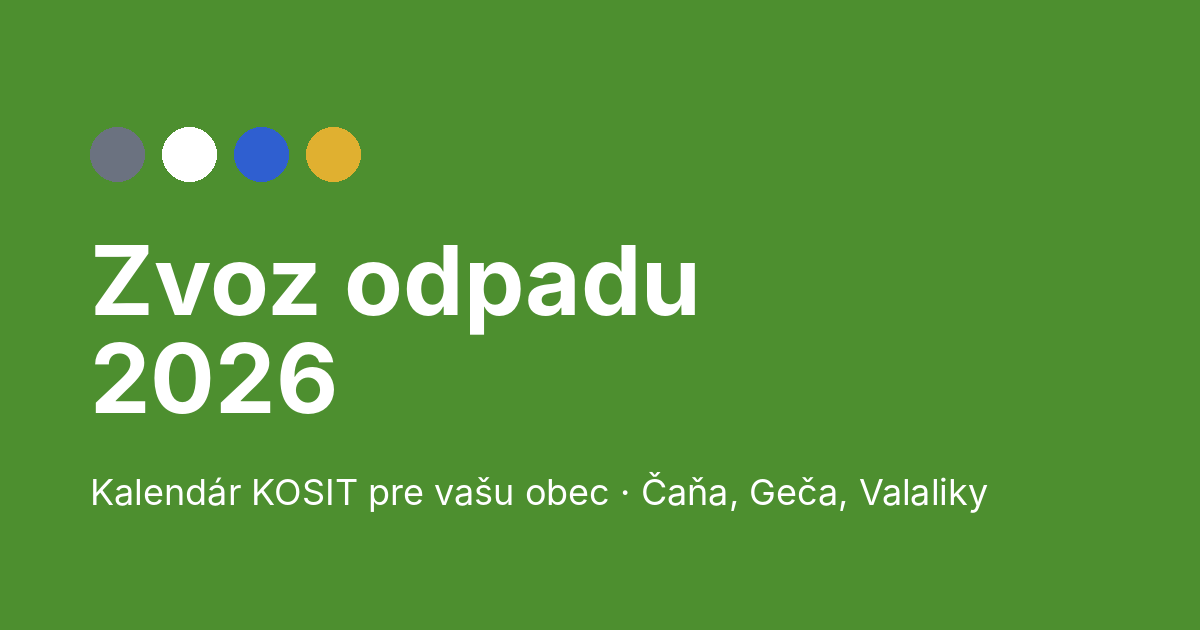
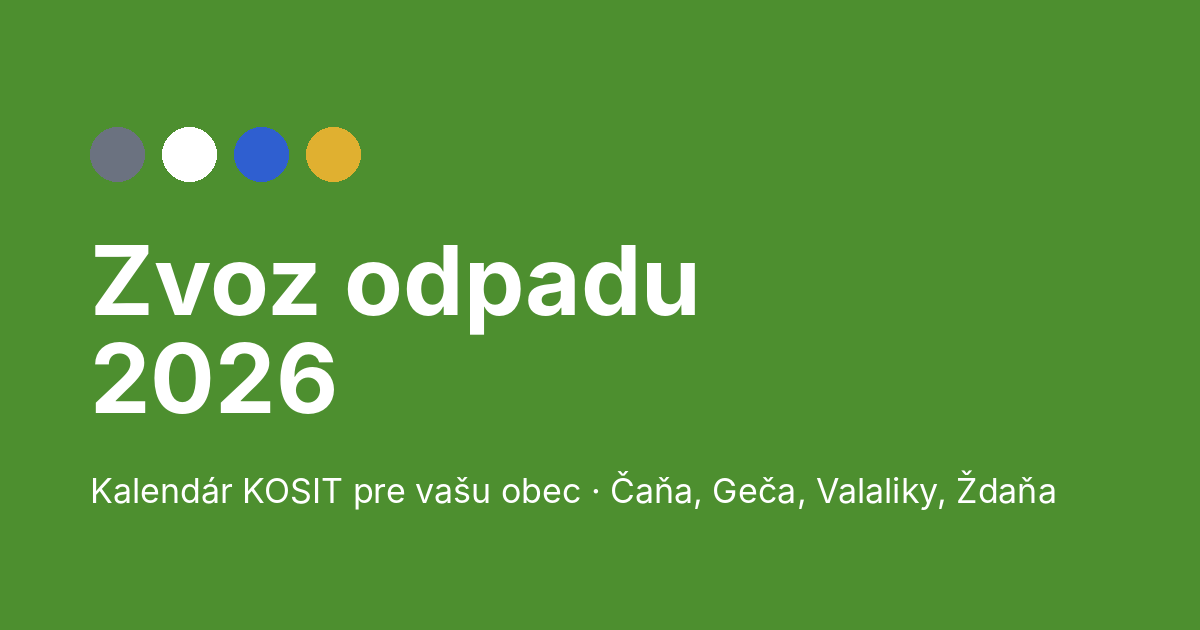
v31: nová obec Ždaňa
Termíny zo zvozového kalendára KOSIT 2026, záložka Zberný dvor (zberné miesto pri ZŠ).
Otváracie hodiny zberného dvora môžu mať viac intervalov za deň (obedňajšia prestávka),
text pod hodinami si môže obec upraviť (zd_other_closed).

Claude-Session: https://claude.ai/code/session_01L48mXoFo5c8PZqUfdjkbCs

Changed region(s): [[0.0617, 0.754, 0.8942, 0.8143]]

diff --git a/index.html b/index.html
@@ -48,7 +48,7 @@ footer{margin-top:22px;font-size:13px;color:var(--mut)}footer a{color:var(--btn)
 .nx b{font-size:12px;gap:5px;min-height:26px}.nx .dt{width:10px;height:10px}.nx .alr{margin:-10px -12px 8px;padding:5px 12px;border-radius:11px 11px 0 0;font-size:12px;font-weight:600;display:flex;align-items:center;gap:5px}.nx.r{border-color:var(--red)}.nx.r .alr{background:var(--red);color:var(--redt)}.nx.y{border-color:var(--yel)}.nx.y .alr{background:var(--yel);color:#1b1f2a}
 .tsw{display:flex;gap:1px;padding:2px;border-radius:8px;background:var(--in);margin-left:auto;margin-right:4px;flex:none}.tsw button{height:auto;border:1px solid transparent;background:transparent;color:var(--mut);font:inherit;font-size:11px;padding:3px 6px;border-radius:6px}.tsw button[aria-pressed="true"]{background:var(--card);border-color:var(--bd2);color:var(--tx);font-weight:600}
 .zd .st{display:flex;align-items:center;gap:10px;border:1px solid var(--col);background:color-mix(in srgb,var(--col) 14%,var(--card));border-radius:12px;padding:10px 12px;margin:0 0 14px}.zd .st svg{color:var(--col)}.zd .st b{display:block;font-size:17px}.zd .st span span{display:block;font-size:13px}
-.hr{display:flex;align-items:center;justify-content:space-between;padding:9px 12px;border-radius:10px;font-size:15px}.hr.n{background:var(--in)}.hr em{font-style:normal;font-size:11px;padding:2px 7px;border-radius:999px;background:var(--btn);color:var(--bt);margin-left:8px}.hr b{font-weight:600}
+.hr{display:flex;align-items:center;justify-content:space-between;gap:10px;padding:9px 12px;border-radius:10px;font-size:15px}.hr.n{background:var(--in)}.hr em{font-style:normal;font-size:11px;padding:2px 7px;border-radius:999px;background:var(--btn);color:var(--bt);margin-left:8px}.hr b{font-weight:600}
 .zrow{display:flex;gap:10px;align-items:flex-start;font-size:14px;margin:6px 0 0}.zrow svg{color:var(--btn);margin-top:1px}.zrow small{display:block;font-size:12px;color:var(--mut)}
 .zb{display:grid;grid-template-columns:repeat(2,minmax(0,1fr));gap:8px;margin:12px 0 0}.zb a{display:flex;align-items:center;justify-content:center;gap:6px;padding:11px;border-radius:12px;font-size:14px;font-weight:600;text-decoration:none;box-sizing:border-box}.zb a.p{background:var(--btn);color:var(--bt)}.zb a.s{border:1px solid var(--bd2);color:var(--tx)}
 .zfee{display:flex;gap:8px;align-items:flex-start;margin:14px 0 0;padding:10px 12px;border-radius:10px;background:var(--in);font-size:13px}.zfee svg{color:var(--btn);margin-top:1px}
@@ -217,8 +217,9 @@ footer{margin-top:22px;font-size:13px;color:var(--mut)}footer a{color:var(--btn)
 <script src="/obce/cana.js"></script>
 <script src="/obce/geca.js"></script>
 <script src="/obce/valaliky.js"></script>
+<script src="/obce/zdana.js"></script>
 <script>
-const APP_VERSION="v30";
+const APP_VERSION="v31";
 const BASE_URL="https://zvoz-odpadu.netlify.app/";
 /* ---- obec (village): data comes from obce/<id>.js; the address /<id>/ opens that village ---- */
 function obFromPath(){const s=location.pathname.replace(/^\/+|\/+$/g,"").split("/")[0];return OBCE[s]?s:null}
@@ -320,15 +321,16 @@ L.push("END:VCALENDAR");return n?L.join("\r\n"):null}
 function setTheme(m,save){const r=document.documentElement;if(m=="auto")delete r.dataset.theme;else r.dataset.theme=m;
 if(save)try{m=="auto"?localStorage.removeItem("theme"):localStorage.setItem("theme",m)}catch(e){}
 document.querySelectorAll("#th button").forEach(b=>b.setAttribute("aria-pressed",b.dataset.m==m))}
-const isYard=()=>OB().info=="yard",ZH=()=>isYard()?OB().yard.hours:{};
+/* yard hours: weekday (0 = Sunday) → [opens, closes] or a list of such intervals (e.g. with a lunch break) */
+const isYard=()=>OB().info=="yard",ZH=()=>{const h=isYard()?OB().yard.hours:{},r={};for(const d in h)r[d]=Array.isArray(h[d][0])?h[d]:[h[d]];return r};
 const dayName=d=>cap(fmtDate(new Date(2026,0,4+d),{weekday:"long"}));
 const ZI={ok:'<circle cx="12" cy="12" r="9"/><path d="M8.5 12.5l2.5 2.5l4.5-5"/>',clk:'<circle cx="12" cy="12" r="9"/><path d="M12 7v5l3 2"/>',pin:'<path d="M12 21s-6-5.6-6-10a6 6 0 0 1 12 0c0 4.4-6 10-6 10z"/><circle cx="12" cy="11" r="2"/>',tel:'<path d="M5 4h4l2 5l-2.5 1.5a11 11 0 0 0 5 5L15 13l5 2v4a2 2 0 0 1-2 2A16 16 0 0 1 3 6a2 2 0 0 1 2-2z"/>',nav:'<path d="M3 11l18-8l-8 18l-2-8z"/>',id:'<rect x="3" y="5" width="18" height="14" rx="2"/><circle cx="9" cy="11" r="2"/><path d="M6 16c.5-1.5 1.7-2 3-2s2.5.5 3 2M14 10h4M14 14h4"/>',home:'<path d="M3 12l9-9l9 9"/><path d="M5 10v9a2 2 0 0 0 2 2h4"/><path d="M15 19l2 2l4-4"/>',eur:'<path d="M17.2 7a6 6 0 1 0 0 10M13 10H7M13 14H7"/>'};
-function zStatus(){const Z=ZH(),n=new Date(),d=n.getDay(),m=n.getHours()*60+n.getMinutes(),h=Z[d];
-if(h&&m>=h[0]&&m<h[1]){const l=h[1]-m;return {s:l<=60?"w":"o",t:T(l<=60?"zd_closing":"zd_open"),d:T("zd_until",{t:fmtT(h[1])}),day:d}}
-for(let o=0;o<=7;o++){const x=(d+o)%7,y=Z[x];if(!y)continue;if(o==0&&m>=y[0])continue;return {s:"c",t:T("zd_closed"),d:T(o==0?"zd_opens_today":o==1?"zd_opens_tomorrow":x==3?"zd_opens_wed":x==6?"zd_opens_sat":"zd_opens_on",{t:fmtT(y[0]),d:dayName(x)}),day:d}}return {s:"c",t:T("zd_closed"),d:"",day:d}}
+function zStatus(){const Z=ZH(),n=new Date(),d=n.getDay(),m=n.getHours()*60+n.getMinutes(),h=(Z[d]||[]).find(i=>m>=i[0]&&m<i[1]);
+if(h){const l=h[1]-m;return {s:l<=60?"w":"o",t:T(l<=60?"zd_closing":"zd_open"),d:T("zd_until",{t:fmtT(h[1])}),day:d}}
+for(let o=0;o<=7;o++){const x=(d+o)%7,y=(Z[x]||[]).find(i=>o>0||m<i[0]);if(!y)continue;return {s:"c",t:T("zd_closed"),d:T(o==0?"zd_opens_today":o==1?"zd_opens_tomorrow":x==3?"zd_opens_wed":x==6?"zd_opens_sat":"zd_opens_on",{t:fmtT(y[0]),d:lang=="en"?dayName(x):dayName(x).toLowerCase()}),day:d}}return {s:"c",t:T("zd_closed"),d:"",day:d}}
 function renderZd(){if(!isYard())return;const z=zStatus(),Z=ZH();const col=z.s=="o"?"var(--S)":z.s=="w"?"var(--yel)":"var(--red)";
 $("zst").innerHTML='<div class="st" style="--col:'+col+'">'+ic(z.s=="c"||z.s=="w"?ZI.clk:ZI.ok,24)+'<span><b>'+z.t+'</b><span>'+z.d+'</span></span></div>';
-$("zh").innerHTML=Object.keys(Z).map(Number).map(d=>'<div class="hr'+(d==z.day?" n":"")+'"><span><b'+(d==z.day?"":' style="font-weight:400"')+'>'+dayName(d)+'</b>'+(d==z.day?"<em>"+T("zd_today_badge")+"</em>":"")+'</span><b>'+fmtT(Z[d][0])+" – "+fmtT(Z[d][1])+'</b></div>').join("")}
+$("zh").innerHTML=Object.keys(Z).map(Number).map(d=>'<div class="hr'+(d==z.day?" n":"")+'"><span><b'+(d==z.day?"":' style="font-weight:400"')+'>'+dayName(d)+'</b>'+(d==z.day?"<em>"+T("zd_today_badge")+"</em>":"")+'</span><b>'+Z[d].map(i=>fmtT(i[0])+" – "+fmtT(i[1])).join(", ")+'</b></div>').join("")}
 /* Icons for the "other waste" list: obce/<id>.js → other.icons gives one name per io_t item */
 const IOI={bulky:'<path d="M4 18V9a2 2 0 0 1 2-2h12a2 2 0 0 1 2 2v9M4 14h16M6 18v2M18 18v2"/>',dso:'<path d="M3 21h18M5 21V11l7-5l7 5v10"/><path d="M9 21v-5h6v5"/>',elektro:'<rect x="6" y="3" width="12" height="18" rx="2"/><path d="M10 18h4"/>',bat:'<rect x="7" y="6" width="10" height="15" rx="2"/><path d="M10 3h4v3M10 12h4"/>',chem:'<path d="M9 3h6v4l4 6v8H5v-8l4-6z"/><path d="M9 7h6"/>',textil:'<path d="M8 4l-5 4l3 3l2-1v10h8V10l2 1l3-3l-5-4c-1 1.5-2.4 2-4 2s-3-.5-4-2z"/>',olej:'<path d="M10 3h4v3l2 3v12H8V9l2-3z"/><path d="M8 14h8"/>',bio:'<path d="M12 21c-4-3-7-6.5-7-10.5C5 6 8.5 3 12 3s7 3 7 7.5c0 4-3 7.5-7 10.5z"/><path d="M12 21V9"/>'};
 const INFO='<circle cx="12" cy="12" r="9"/><path d="M12 11v5M12 8h.01"/>',WEB='<circle cx="12" cy="12" r="9"/><path d="M3 12h18M12 3a14 14 0 0 1 0 18M12 3a14 14 0 0 0 0 18"/>';

diff --git a/obce/zdana.js b/obce/zdana.js
@@ -1,0 +1,75 @@
+/*
+ * Obec Ždaňa – data for the waste collection app.
+ * One file per village. To add a village: copy this file, change everything below,
+ * add it to OBCE_ZOZNAM in obce/zoznam.js and run `node scripts/check-i18n.js`.
+ *
+ *  D      collection days: K = mixed waste, S = glass, P = paper, L = plastics & metals;
+ *         each maps month number (1–12) to a list of days in 2026 (from the KOSIT PDF).
+ *  info   "yard"  = second tab is the collection yard (Zberný dvor), needs `yard` and zd_* texts
+ *         "other" = second tab is "Other waste" (no yard), needs `other` and io_* texts
+ *  t      village-specific texts in ALL languages (sk, hu, en); they override i18n.js
+ */
+OBCE.zdana = {
+  name: { sk: "Ždaňa", hu: "Hernádzsadány", en: "Ždaňa" },
+  color: "#7a4fb5",
+  pdf: "https://www.kosit.sk/wp-content/uploads/2025/12/Zdana.pdf",
+  daySwitch: false,
+  info: "yard",
+  yard: {
+    /* weekday (0 = Sunday): [opens, closes] or several intervals, minutes after midnight.
+       Saturday 8:00–10:00 only by arrangement with the village, so it is in zd_other_closed, not here. */
+    hours: {
+      1: [[450, 690], [780, 870]],
+      2: [[450, 690], [780, 870]],
+      3: [[450, 690], [780, 1020]],
+      4: [[450, 690], [780, 870]],
+      5: [450, 690]
+    },
+    map: "https://www.google.com/maps/search/?api=1&query=Z%C3%A1kladn%C3%A1+%C5%A1kola+Jarmo%C4%8Dn%C3%A1+96+%C5%BDda%C5%88a",
+    tel: "+421556980021"
+  },
+  D: {
+    K: {1:[12,26],2:[9,23],3:[9,23],4:[6,20],5:[4,18],6:[1,15,29],7:[13,27],8:[10,24],9:[7,21],10:[5,19],11:[2,16,30],12:[14,28]},
+    S: {1:[15],3:[12],5:[7],7:[2],8:[29],9:[24],11:[19],12:[26]},
+    P: {2:[12],4:[9],6:[4],8:[27],10:[22],12:[17]},
+    L: {1:[1,29],2:[26],3:[26],4:[23],5:[21],6:[18],7:[16,30],8:[13],9:[10],10:[8],11:[5],12:[3]}
+  },
+  t: {
+    sk: {
+      zd_other_closed: "Sobota 8:00 – 10:00 len po dohode s obcou, inak zatvorené.",
+      zd_addr: "Zberné miesto obce, areál základnej školy (vchod ku kotolni), Jarmočná 96",
+      zd_zip: "044 11 Ždaňa",
+      zd_res: "Trvalý alebo prechodný pobyt v Ždani a zaplatený poplatok za odpad. Odovzdať sa dá len odpad z domácnosti, nie z podnikania.",
+      zd_fee: "Objemný odpad je zadarmo. Drobný stavebný odpad stojí 0,015 € za 1 kg, poplatok sa platí vopred v pokladni obce. Väčšie množstvo (nad cca 500 kg) cez objednaný veľkokapacitný kontajner.",
+      zd_acc_sub: "3 druhy odpadu",
+      zd_acc_items: ["Objemný odpad (nábytok, sedačky, koberce – rozložené)", "Drobný stavebný odpad", "Použitý jedlý olej a tuky v uzavretej nádobe"],
+      zd_rej_items: ["Papier, plasty, sklo a kovy – patria do triedeného zberu doma", "Elektroodpad – do predajne alebo pri zbere obce 2× ročne", "Batérie a akumulátory – pri zbere elektroodpadu 2× ročne", "Pneumatiky – k predajcovi pneumatík", "Lieky – do lekárne", "Odpad z podnikania"],
+      zd_foot: "Zdroj: oznam obce Ždaňa „Kam s odpadom“ a VZN č. 50/2016. Pred cestou si hodiny radšej overte na obecnom úrade, tel. 055 698 00 21.",
+      foot_src: "Termíny sú prepísané zo zvozového kalendára 2026 pre Ždaňu ({pdf}). Pri pochybnostiach platí oficiálny kalendár. Bezplatná linka KOSIT: 0800 156 748."
+    },
+    hu: {
+      zd_other_closed: "Szombaton 8:00 – 10:00 csak előzetes megbeszélés alapján, egyébként zárva.",
+      zd_addr: "A község gyűjtőhelye, az alapiskola területe (a kazánház bejáratánál), Jarmočná 96",
+      zd_zip: "044 11 Ždaňa",
+      zd_res: "Állandó vagy ideiglenes lakcím Ždaňán és befizetett hulladékdíj. Csak háztartási hulladék adható le, vállalkozási nem.",
+      zd_fee: "A lomhulladék leadása ingyenes. Az apró építési hulladék díja 0,015 € kilogrammonként, előre kell befizetni a községi pénztárban. Nagyobb mennyiséget (kb. 500 kg felett) megrendelt nagy konténerrel.",
+      zd_acc_sub: "3 hulladéktípus",
+      zd_acc_items: ["Lomhulladék (bútor, ülőgarnitúra, szőnyeg – szétszedve)", "Apró építési hulladék", "Használt étolaj és zsiradék zárt edényben"],
+      zd_rej_items: ["Papír, műanyag, üveg és fém – otthon szelektíven gyűjtendő", "Elektronikai hulladék – az üzletbe vagy a község évi kétszeri gyűjtésére", "Elemek és akkumulátorok – az elektronikai hulladékkal évente kétszer", "Gumiabroncsok – a gumiabroncs-forgalmazóhoz", "Gyógyszerek – a gyógyszertárba", "Vállalkozási hulladék"],
+      zd_foot: "Forrás: Ždaňa község „Hova a hulladékkal” tájékoztatója és az 50/2016. sz. rendelet. Indulás előtt érdemes a nyitvatartást a községi hivatalban ellenőrizni, tel. 055 698 00 21.",
+      foot_src: "Az időpontok a KOSIT Ždaňa (Hernádzsadány) 2026-os szállítási naptárából származnak ({pdf}). Kétség esetén a hivatalos naptár az irányadó. A KOSIT ingyenes vonala: 0800 156 748."
+    },
+    en: {
+      zd_other_closed: "Saturday 8:00 – 10:00 only by arrangement with the village, otherwise closed.",
+      zd_addr: "Village collection point, primary school grounds (boiler room entrance), Jarmočná 96",
+      zd_zip: "044 11 Ždaňa",
+      zd_res: "Permanent or temporary residence in Ždaňa and the waste fee paid. Household waste only, no business waste.",
+      zd_fee: "Bulky waste is free. Small construction waste costs €0.015 per kg, paid in advance at the village cash desk. Larger amounts (over about 500 kg) need an ordered skip.",
+      zd_acc_sub: "3 types of waste",
+      zd_acc_items: ["Bulky waste (furniture, sofas, carpets – taken apart)", "Small construction waste", "Used cooking oil and fat in a closed container"],
+      zd_rej_items: ["Paper, plastics, glass and metal – sort them at home", "E-waste – to a shop or the village collection twice a year", "Batteries – with the e-waste collection twice a year", "Tyres – to a tyre dealer", "Medicines – to a pharmacy", "Business waste"],
+      zd_foot: "Source: the village of Ždaňa notice “Where to take waste” and bylaw No. 50/2016. Better check the hours with the municipal office before you go, phone 055 698 00 21.",
+      foot_src: "Dates are transcribed from the KOSIT 2026 collection calendar for Ždaňa ({pdf}). If in doubt, the official calendar applies. KOSIT free line: 0800 156 748."
+    }
+  }
+};

diff --git a/i18n.js b/i18n.js
@@ -158,7 +158,7 @@ var I18N = {
     zd_opens_tomorrow: "Otvára zajtra o {t}",
     zd_opens_wed: "Otvára v stredu o {t}",
     zd_opens_sat: "Otvára v sobotu o {t}",
-    zd_opens_on: "Otvára {d} o {t}",
+    zd_opens_on: "Najbližšie otvorené: {d} o {t}",
     zd_today_badge: "dnes",
     zd_hours: "Otváracie hodiny",
     zd_other_closed: "Ostatné dni zatvorené.",
@@ -323,7 +323,7 @@ var I18N = {
     zd_opens_tomorrow: "Holnap {t}-kor nyit",
     zd_opens_wed: "Szerdán {t}-kor nyit",
     zd_opens_sat: "Szombaton {t}-kor nyit",
-    zd_opens_on: "Nyit: {d}, {t}",
+    zd_opens_on: "Legközelebb nyitva: {d}, {t}",
     zd_today_badge: "ma",
     zd_hours: "Nyitvatartás",
     zd_other_closed: "A többi napon zárva.",
@@ -488,7 +488,7 @@ var I18N = {
     zd_opens_tomorrow: "Opens tomorrow at {t}",
     zd_opens_wed: "Opens Wednesday at {t}",
     zd_opens_sat: "Opens Saturday at {t}",
-    zd_opens_on: "Opens {d} at {t}",
+    zd_opens_on: "Next open: {d} at {t}",
     zd_today_badge: "today",
     zd_hours: "Opening hours",
     zd_other_closed: "Closed on other days.",

diff --git a/scripts/check-i18n.js b/scripts/check-i18n.js
@@ -92,6 +92,12 @@ try {
     for (const l of LANGS) if (!o.name || !o.name[l]) err(`${tag} name.${l} is missing`);
     if (!["yard", "other"].includes(o.info)) err(`${tag} info must be "yard" or "other"`);
     if (o.info === "yard" && !(o.yard && o.yard.hours && o.yard.map && o.yard.tel)) err(`${tag} info "yard" needs yard: {hours, map, tel}`);
+    if (o.info === "yard" && o.yard && o.yard.hours) for (const d in o.yard.hours) {
+      const v = o.yard.hours[d], iv = Array.isArray(v[0]) ? v : [v];
+      if (!(d >= 0 && d <= 6)) err(`${tag} yard.hours: day ${d} must be 0–6 (0 = Sunday)`);
+      let last = -1;
+      for (const i of iv) { if (!(i.length === 2 && i[0] < i[1] && i[0] > last && i[1] <= 1440)) err(`${tag} yard.hours[${d}]: bad interval ${JSON.stringify(i)} (minutes after midnight, in order)`); last = i[1]; }
+    }
     if (o.info === "other" && !(o.other && o.other.tel && o.other.web)) err(`${tag} info "other" needs other: {tel, web}`);
     if (o.info === "other" && o.other) {
       const ICONS = ["bulky", "dso", "elektro", "bat", "chem", "textil", "olej", "bio"];

diff --git a/sw.js b/sw.js
@@ -1,7 +1,7 @@
 /* Service worker: network first, cache as a fallback for offline use.
  * Bump C for every release. Files listed in PRE are cached on install (missing ones are skipped). */
-const C="zvoz-v30";
-const PRE=["/","/index.html","/i18n.js","/obce/zoznam.js","/obce/cana.js","/obce/geca.js","/obce/valaliky.js","/cana/","/geca/","/valaliky/","/icon-192.png"];
+const C="zvoz-v31";
+const PRE=["/","/index.html","/i18n.js","/obce/zoznam.js","/obce/cana.js","/obce/geca.js","/obce/valaliky.js","/obce/zdana.js","/cana/","/geca/","/valaliky/","/zdana/","/icon-192.png"];
 self.addEventListener("install",e=>{self.skipWaiting();e.waitUntil(caches.open(C).then(c=>Promise.all(PRE.map(u=>c.add(u).catch(()=>{})))))});
 self.addEventListener("activate",e=>e.waitUntil(caches.keys().then(k=>Promise.all(k.filter(x=>x!=C).map(x=>caches.delete(x)))).then(()=>self.clients.claim())));
 self.addEventListener("fetch",e=>{const r=e.request;if(r.method!="GET"||new URL(r.url).origin!==location.origin)return;

diff --git a/obce/zoznam.js b/obce/zoznam.js
@@ -5,4 +5,4 @@
  * (the check `node scripts/check-i18n.js` reminds you if you forget).
  */
 var OBCE = {};
-var OBCE_ZOZNAM = ["cana", "geca", "valaliky"];
+var OBCE_ZOZNAM = ["cana", "geca", "valaliky", "zdana"];

diff --git a/README.md b/README.md
@@ -9,6 +9,7 @@ A free, lightweight web app (PWA) with the 2026 KOSIT waste collection calendars
 | Čaňa | https://zvoz-odpadu.netlify.app/cana/ | Collection yard (Zberný dvor) |
 | Geča | https://zvoz-odpadu.netlify.app/geca/ | Other waste (Iný odpad) – Geča has no collection yard |
 | Valaliky | https://zvoz-odpadu.netlify.app/valaliky/ | Other waste (Iný odpad) – Valaliky has no collection yard |
+| Ždaňa | https://zvoz-odpadu.netlify.app/zdana/ | Collection yard (Zberný dvor) – collection point at the primary school |
 
 > This is an unofficial, community project. It is not affiliated with the municipalities or KOSIT a.s. The dates were transcribed from the official KOSIT collection calendars (linked in each village file). If in doubt, the official calendar applies. Found a mistake? Please open an issue.
 
